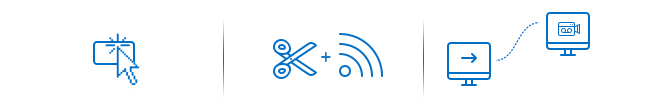
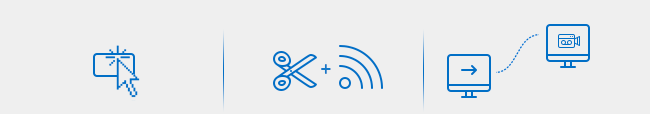
portal demo

diff --git a/app/assets/stylesheets/home.css.scss b/app/assets/stylesheets/home.css.scss
@@ -1,3 +1,5 @@
+body { background-color: #efefef; }
+
 #service-name, #service-slogan { text-transform: lowercase; }
 
 #sharing { font-size: 22px; }
@@ -23,3 +25,8 @@ button#start-screen-share { width: 25%; float: left; }
 /* view page */
 #loader { text-align: center; }
 #screen-not-found { text-align: center; }
+
+/* TEMPORARY FOR DEMO */
+.ppv { z-index: 10000; width: 310px; height: 500px; }
+#ppv-hover { z-index: 999; width: 180px; }
+/* /TEMPORARY FOR DEMO */

diff --git a/app/controllers/home_controller.rb b/app/controllers/home_controller.rb
@@ -1,4 +1,7 @@
 class HomeController < ApplicationController
+  def portal_demo
+    render 'portal_demo', :layout => 'portal_demo'
+  end
   def extension_just_installed
     @extension_just_installed = true
     render 'index'

diff --git a/config/routes.rb b/config/routes.rb
@@ -1,5 +1,6 @@
 Proto::Application.routes.draw do
   root 'home#index'
+  get '/demo' => 'home#portal_demo'
   get '/extension-just-installed' => 'home#extension_just_installed'
   get '/:screen_id' => 'home#view'
 end
